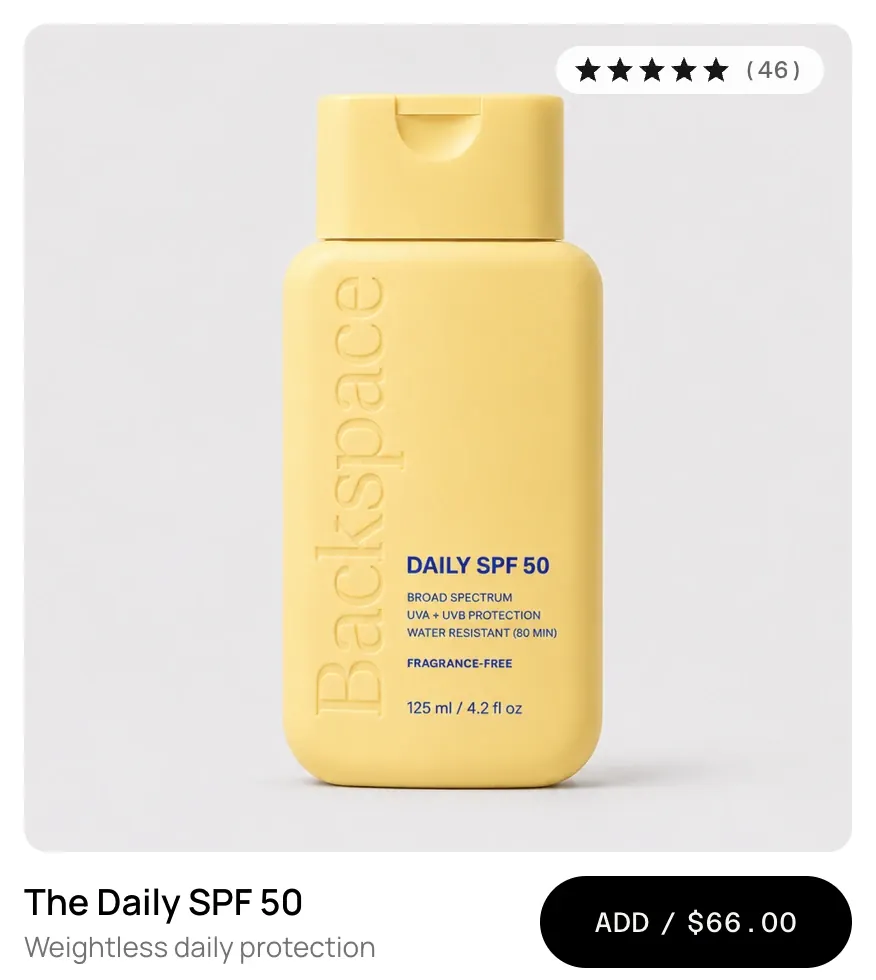
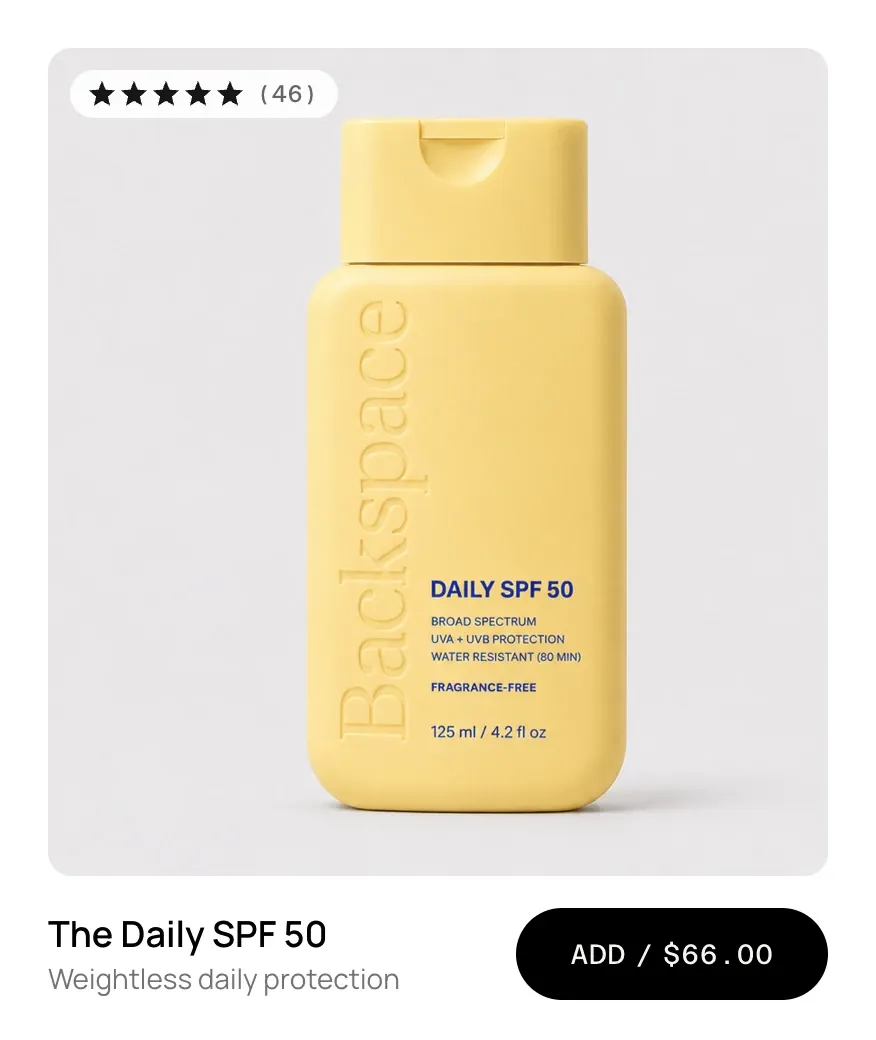
Hero: new Daily SPF 50 card, its label top right clear of the rating

diff --git a/content.ts b/content.ts
@@ -70,12 +70,12 @@ export const hero = {
   lede:
     "I launch and fix Shopify stores: the strategy, the design and the build itself, without three handoffs. One person from brief to launch, so nothing gets lost along the way.",
   // Storefront screens shown in a row under the intro. Width and height are the files' own;
-  // `tag` (optional) replaces the label at the bottom left; `tagTop` moves it to the top left.
+  // `tag` (optional) replaces the label at the bottom left; `tagTop` moves it to the top, `tagRight` to the right.
   shots: [
     { src: "/hero/swim-homepage.webp", label: "Homepage", tag: "Theme design", alt: "A swimwear homepage: the blue serif headline Cut for the sea, made for the season, over two beach photos with category links between them", width: 1364, height: 960 },
-    { src: "/hero/spf-product-card.webp", label: "Product card", tag: "Product pages", tagTop: true, alt: "A product card for The Daily SPF 50, a yellow sunscreen bottle on a grey background, with a star rating, a short description and an Add button with the price", width: 876, height: 980 },
+    { src: "/hero/spf-product-card.webp", label: "Product card", tag: "Product pages", tagTop: true, tagRight: true, alt: "A product card for The Daily SPF 50, a yellow sunscreen bottle on a grey background, with a star rating, a short description and an Add button with the price", width: 876, height: 1040 },
     { src: "/hero/collection-banner.webp", label: "Collection banner", tagTop: true, alt: "A jewelry banner: gold and pearl earrings on stone, with a serif headline and a Shop now button", width: 720, height: 745 },
-  ] as { src: string; label: string; alt: string; width: number; height: number; tag?: string; tagTop?: boolean }[],
+  ] as { src: string; label: string; alt: string; width: number; height: number; tag?: string; tagTop?: boolean; tagRight?: boolean }[],
 };
 
 export const approach = {

diff --git a/components/EditorialHero.tsx b/components/EditorialHero.tsx
@@ -68,9 +68,9 @@ export function EditorialHero() {
             <figure key={shot.src} className="shot relative h-[220px] shrink-0 overflow-hidden border border-line lg:h-auto lg:w-full" style={{ aspectRatio: `${shot.width} / ${shot.height}` }}>
               {/* eslint-disable-next-line @next/next/no-img-element */}
               <img src={shot.src} alt={shot.alt} width={shot.width} height={shot.height} decoding="async" className="size-full object-cover" />
-              {/* Bottom left, or top left where the screen's own text sits at the bottom (tagTop):
-                  the badge if the screen has one, otherwise its label */}
-              <figcaption className={`absolute left-3 ${shot.tagTop ? "top-3" : "bottom-3"}`}>
+              {/* Bottom left by default; tagTop and tagRight move it clear of the screen's own text.
+                  The badge if the screen has one, otherwise its label. */}
+              <figcaption className={`absolute ${shot.tagTop ? "top-3" : "bottom-3"} ${shot.tagRight ? "right-3" : "left-3"}`}>
                 <Chip className="text-[13px] text-white [--color-chip:var(--color-accent)]">{shot.tag ?? shot.label}</Chip>
               </figcaption>
             </figure>
